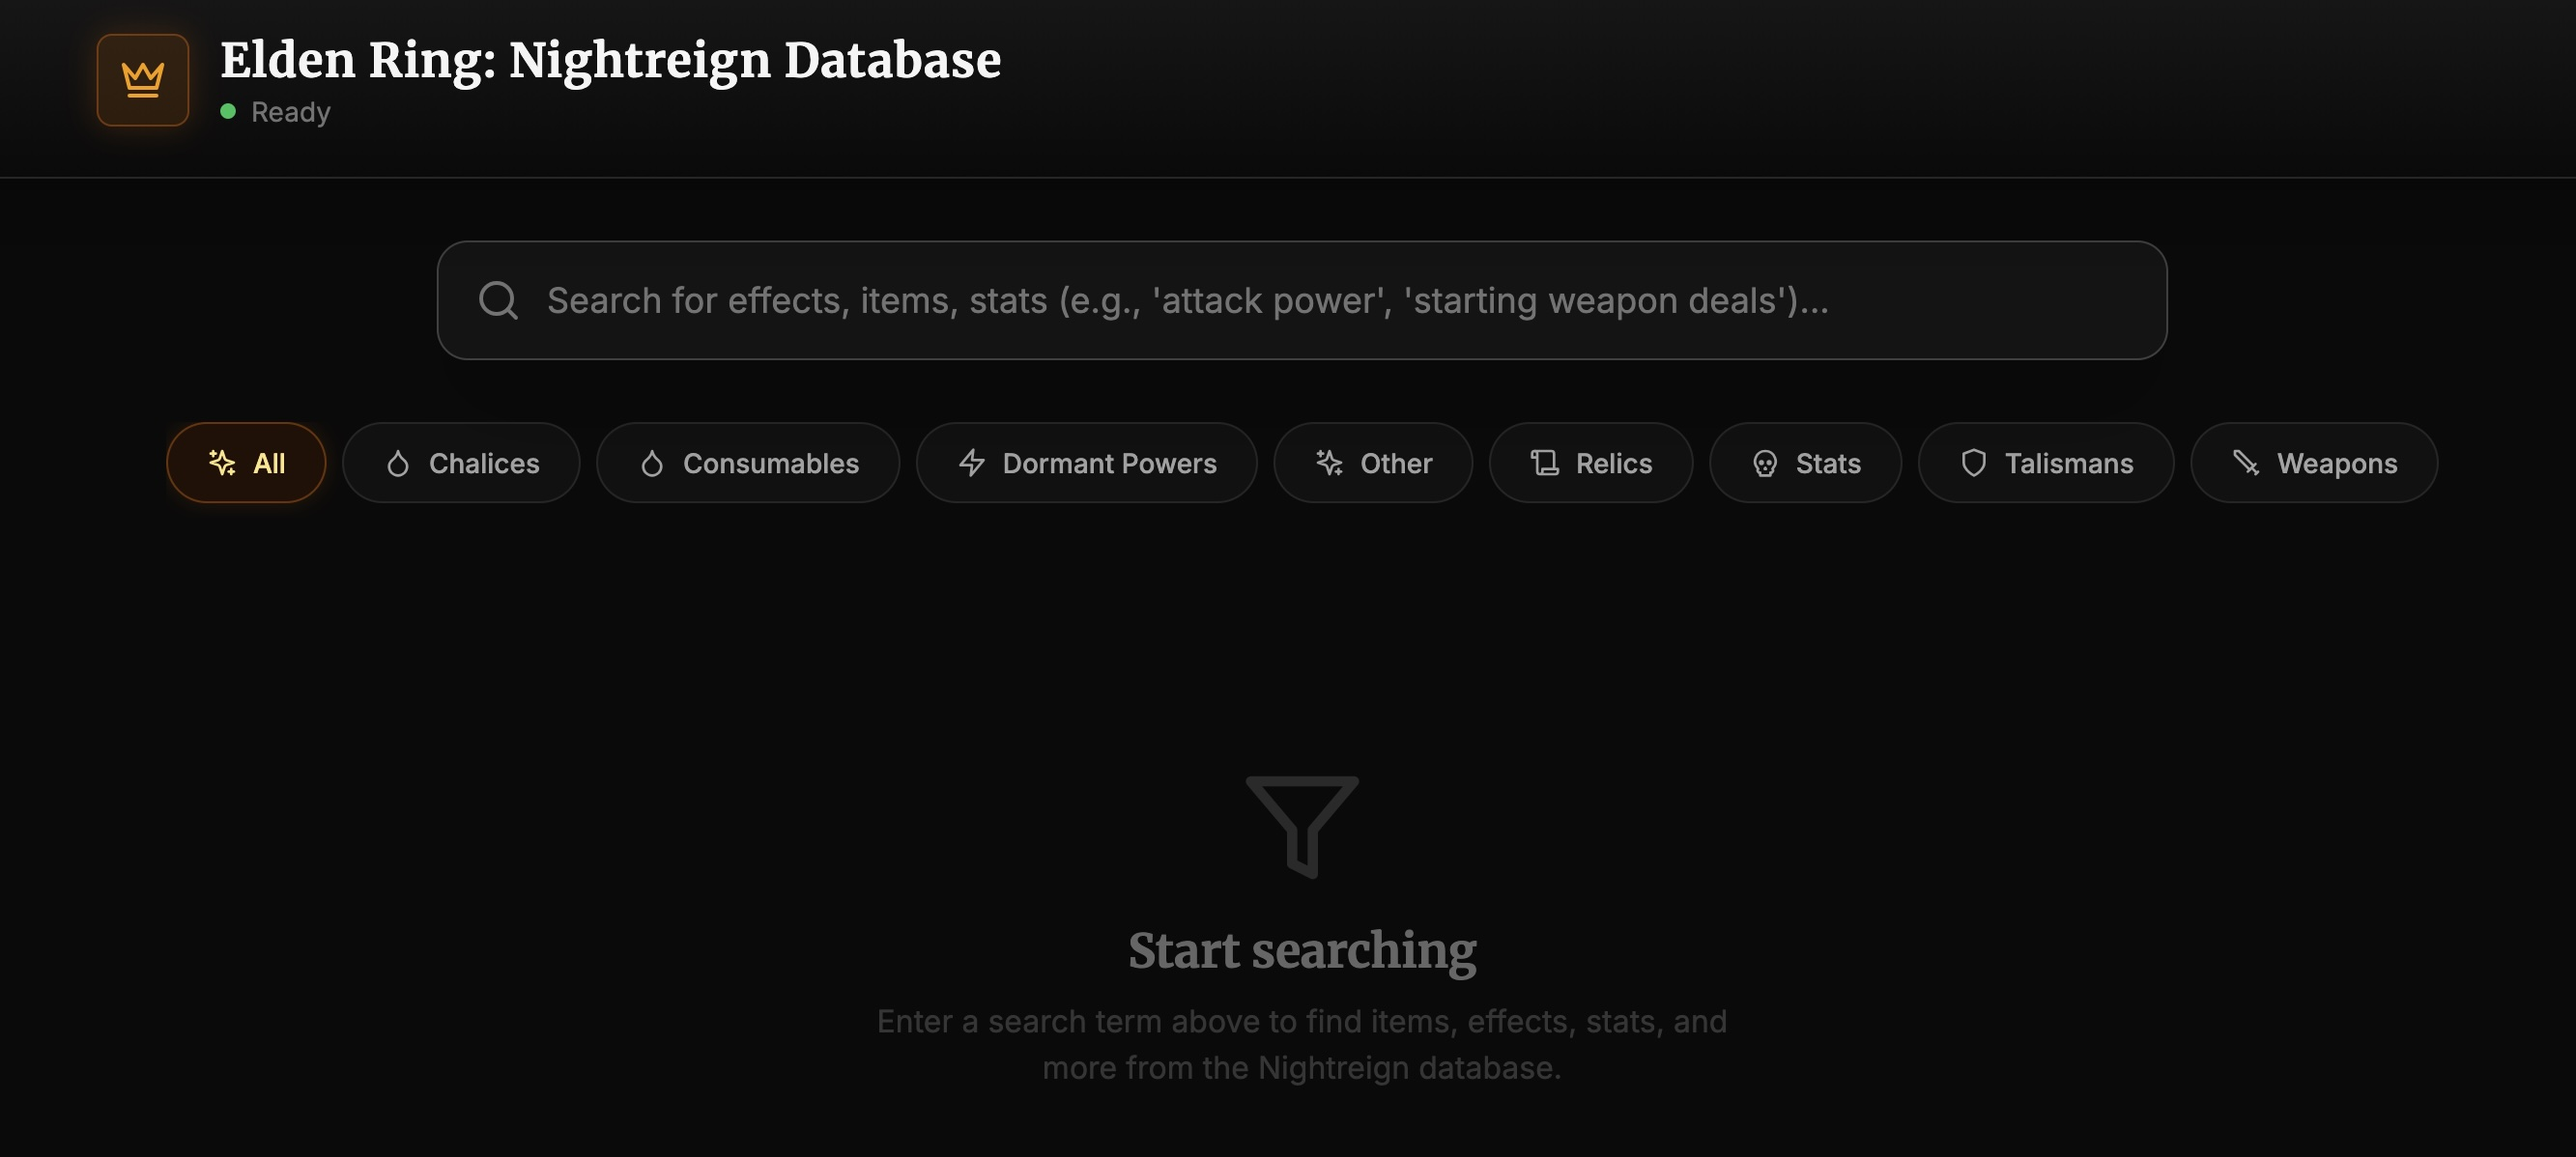
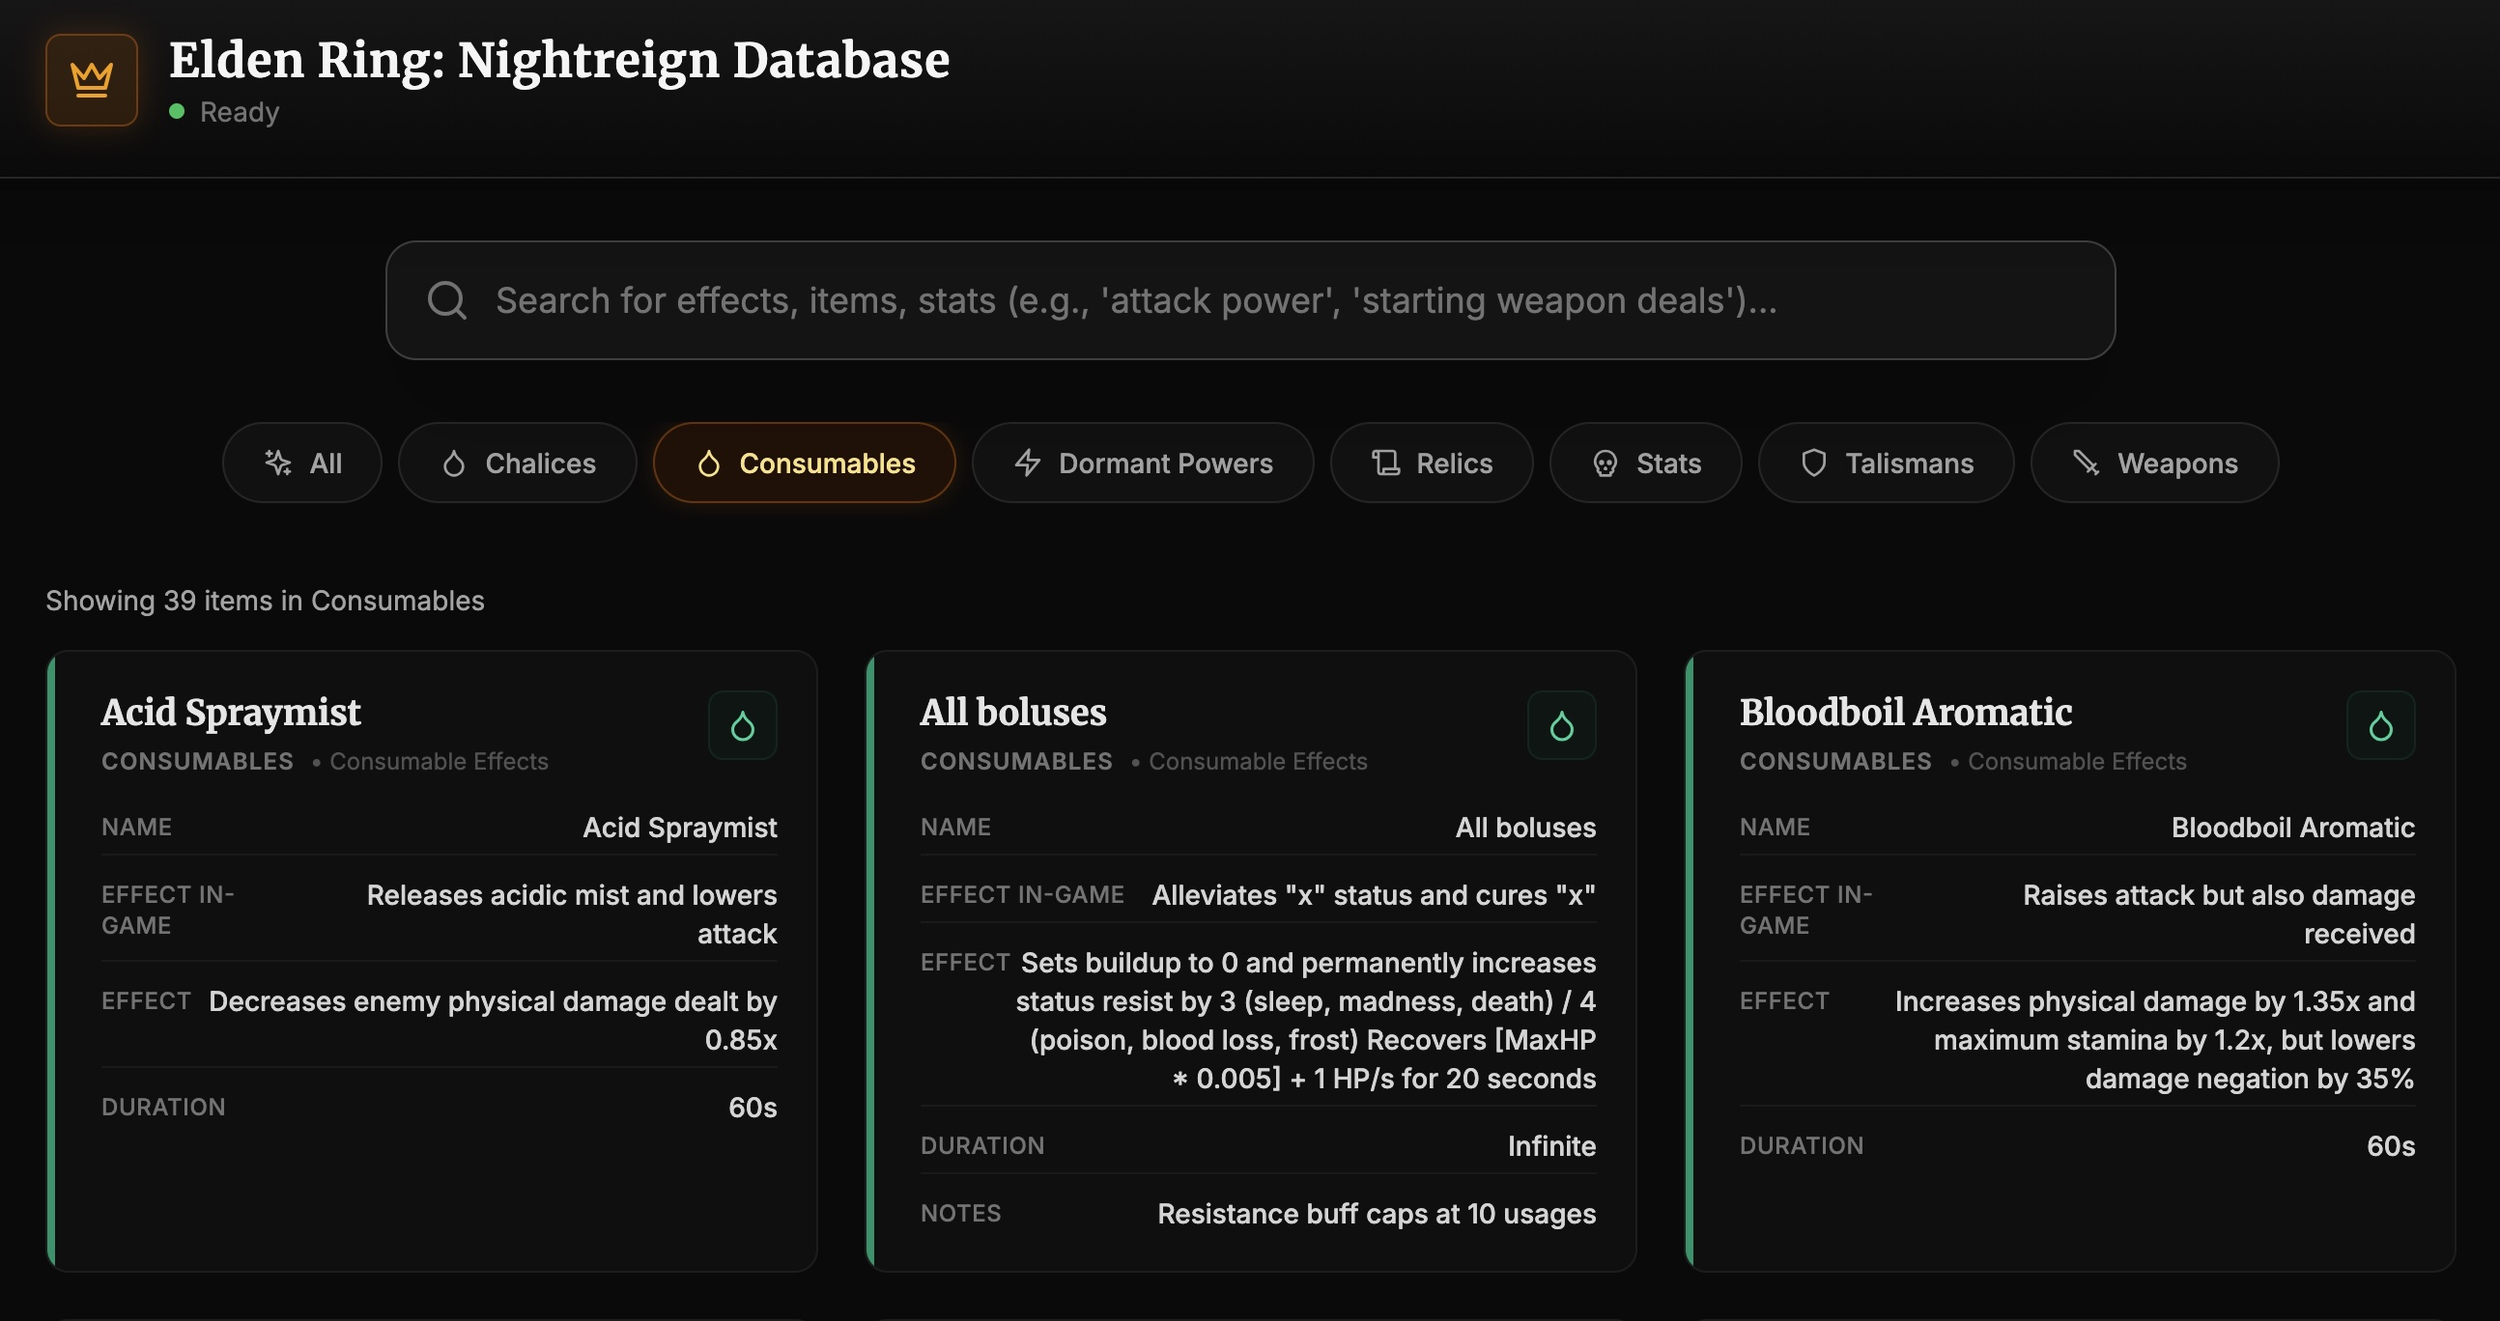
readme, lots of ui tweaks

diff --git a/src/components/Header.jsx b/src/components/Header.jsx
@@ -1,19 +1,21 @@
 import React from 'react';
-import { Crown } from 'lucide-react';
 
 export function Header({ loading }) {
   return (
     <div className="bg-gradient-to-b from-neutral-900 to-neutral-950 border-b border-neutral-800 sticky top-0 z-50 backdrop-blur-md bg-opacity-90 shadow-2xl">
       <div className="max-w-7xl mx-auto px-4 py-6">
         <div className="flex items-center gap-4">
-          <div className="h-12 w-12 bg-amber-700/20 rounded-lg border border-amber-700/50 flex items-center justify-center text-amber-500 shadow-[0_0_15px_rgba(180,83,9,0.3)]">
-            <Crown size={24} />
-          </div>
+          <img
+            src="/duchess.png"
+            alt="The Duchess - Elden Ring Nightreign"
+            className="h-20 w-20 object-cover rounded-lg border-2 border-amber-700/50 shadow-[0_0_20px_rgba(180,83,9,0.4)] hover:scale-105 transition-transform duration-300"
+          />
           <div>
             <h1 className="text-2xl font-serif text-neutral-100 tracking-wide font-bold">
               Elden Ring: Nightreign Database
             </h1>
-            <div className="flex items-center gap-3">
+            <p className="text-base font-serif text-neutral-500 mt-1">by bindok</p>
+            <div className="flex items-center gap-3 mt-1">
               <p className="text-neutral-500 text-sm flex items-center gap-2">
                 <span
                   className={`w-2 h-2 rounded-full inline-block ${loading ? 'animate-pulse bg-yellow-500' : 'bg-green-500'}`}

diff --git a/src/utils/searchEngine.js b/src/utils/searchEngine.js
@@ -20,6 +20,11 @@ export function searchAllSheets(data, query = '', categoryFilter = 'all') {
 
     const category = categorizeSheet(sheetName);
 
+    // Exclude 'Other' category completely
+    if (category === 'Other') {
+      return;
+    }
+
     // Apply category filter
     if (categoryFilter !== 'all' && category !== categoryFilter) {
       return;
@@ -72,7 +77,10 @@ export function getCategories(data) {
 
   Object.keys(data).forEach(sheetName => {
     const category = categorizeSheet(sheetName);
-    categories.add(category);
+    // Exclude 'Other' category
+    if (category !== 'Other') {
+      categories.add(category);
+    }
   });
 
   return Array.from(categories).sort();

diff --git a/src/hooks/useExcelData.js b/src/hooks/useExcelData.js
@@ -6,7 +6,7 @@ import { loadExcelFile } from '../utils/excelParser';
  * @param {string} fileUrl - URL of the Excel file to load
  * @returns {Object} - { data, loading, error, reload }
  */
-export function useExcelData(fileUrl = '/nightreign-1.03.2.xlsx') {
+export function useExcelData(fileUrl = '/nightreign-data.xlsx') {
   const [data, setData] = useState(null);
   const [loading, setLoading] = useState(true);
   const [error, setError] = useState(null);

diff --git a/src/components/Footer.jsx b/src/components/Footer.jsx
@@ -7,7 +7,7 @@ export function Footer() {
       <div className="max-w-7xl mx-auto px-4">
         <div className="flex flex-col items-center justify-center gap-2 text-neutral-500 text-sm">
           <p className="flex items-center gap-2">
-            2026 © Karan Kadam. Made with
+            2026 © bindok. Made with
             <Heart size={14} className="text-red-500 fill-red-500 animate-pulse" />
             in Adelaide, Australia
           </p>

diff --git a/README.md b/README.md
@@ -49,7 +49,7 @@ docker run -p 8080:80 nightreign-dashboard
 ```
 nightreign-dashboard/
 ├── public/
-│   └── nightreign-1.03.2.xlsx    # Excel data file
+│   └── nightreign-data.xlsx    # Excel data file
 ├── src/
 │   ├── components/               # React components
 │   │   ├── DataCard.jsx
@@ -132,5 +132,3 @@ Data compiled from Elden Ring: Nightreign game information and from the Nightrei
 ![Nightreign Relic Stat Spreadsheet](https://steamcommunity.com/app/2622380/discussions/0/597404329477993941/)
 
 ---
-
-2026 © Karan Kadam. Made with ❤ in Adelaide, Australia
